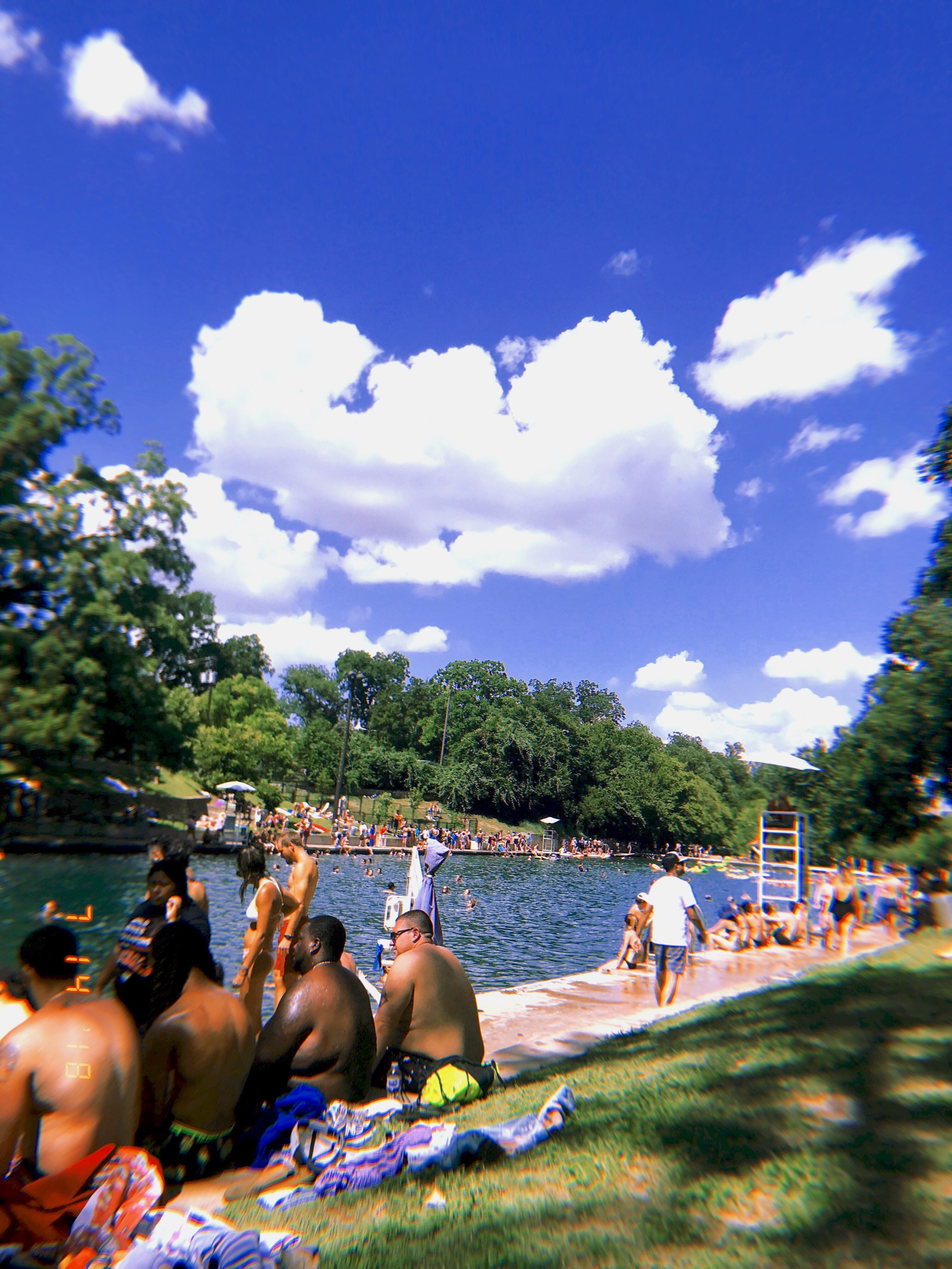
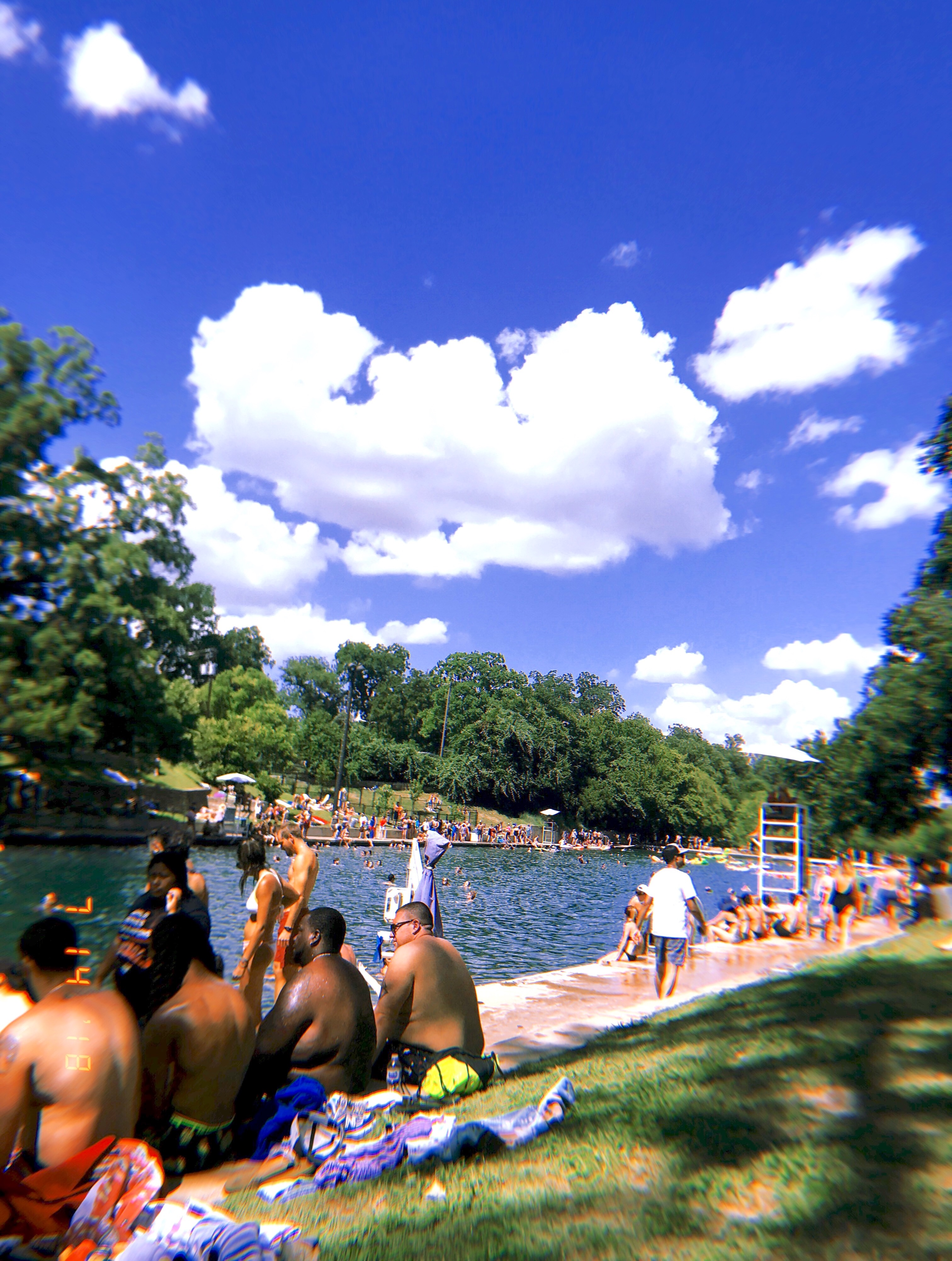
Adjusted image files

diff --git a/index.html b/index.html
@@ -20,7 +20,7 @@
       <header class="heading-info">
         <h2>Welcome to</h2>
         <h1>AUSTIN, Texas</h1>
-        <h3>The Music Capital</h3>
+        <h3>The Live Music Capital</h3>
         <a
           href="https://www.valuepenguin.com/moving-to-austin#expensive"
           target="_blank"
@@ -70,7 +70,7 @@
                   >🏃</a
                 >
               </p>
-              <img src="/media/lake-atx.jpg" alt="" />
+              <img src="/media/lake-austin-trail.jpg" alt="" />
               <p>
                 <i>Address</i>:
                 <br />
@@ -224,7 +224,7 @@
 
       <div class="grid grid-2-columns sources">
         <div class="coding-credit">
-          This page is coded by
+          This page was coded by
           <a href="https://sandra-tsai-yun.netlify.app/" target="_blank">
             Sandra</a
           >

diff --git a/src/styles.css b/src/styles.css
@@ -88,10 +88,9 @@ a:hover {
 }
 
 img {
-  max-width: 100%;
-  width: 500px;
+  width: 100%;
   border-radius: 7px;
-  filter: brightness(110%);
+  filter: brightness(109%);
 }
 
 p {
@@ -141,6 +140,7 @@ footer {
 
 footer p {
   text-align: justify;
+  margin: 29px 0;
 }
 
 footer a {
